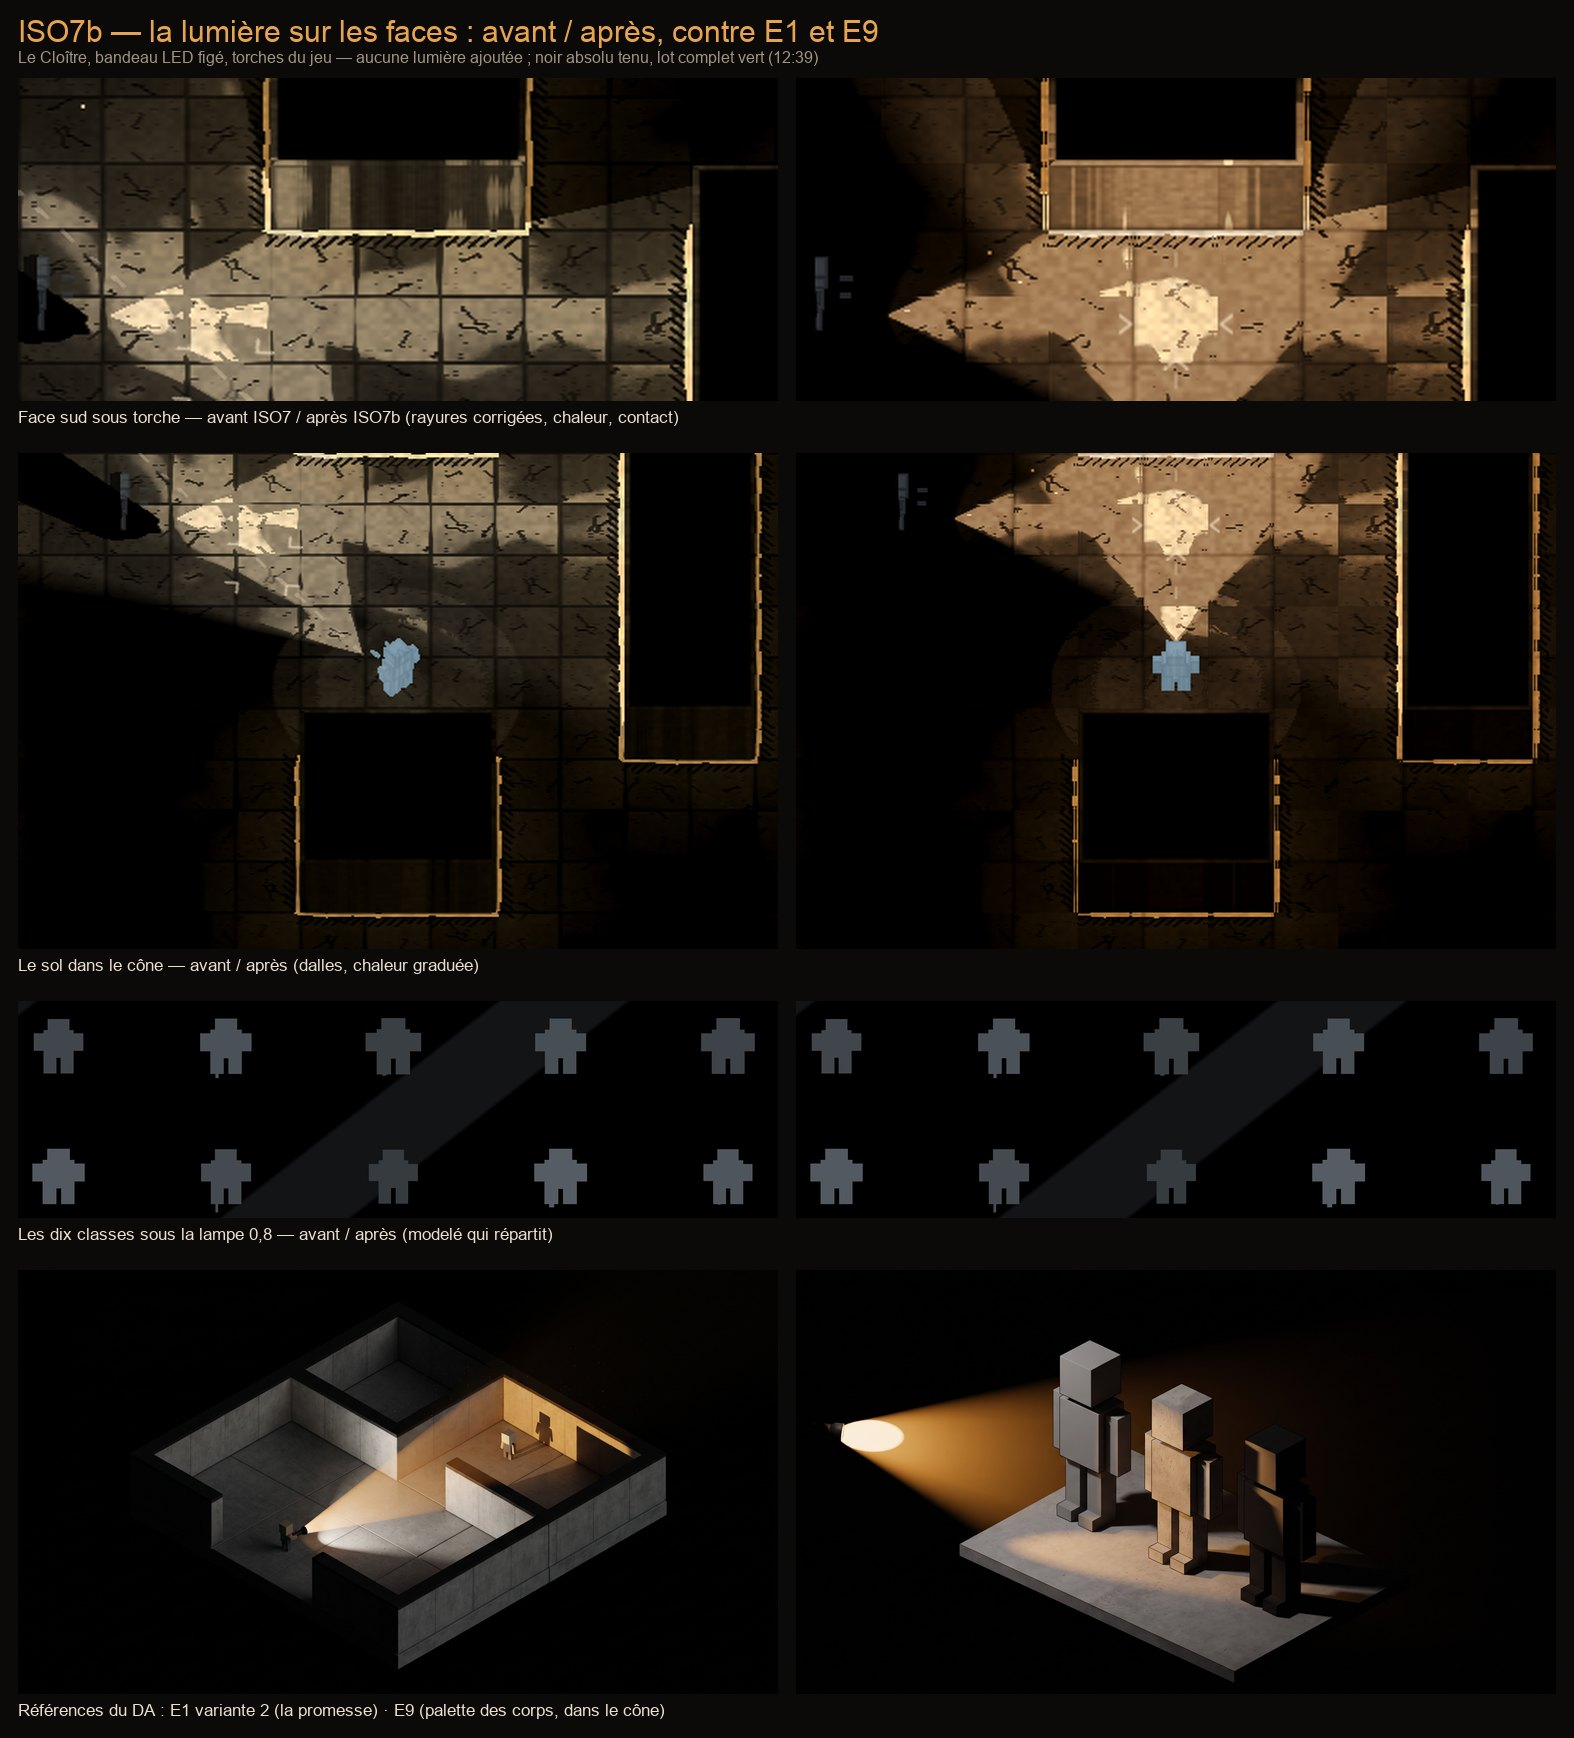
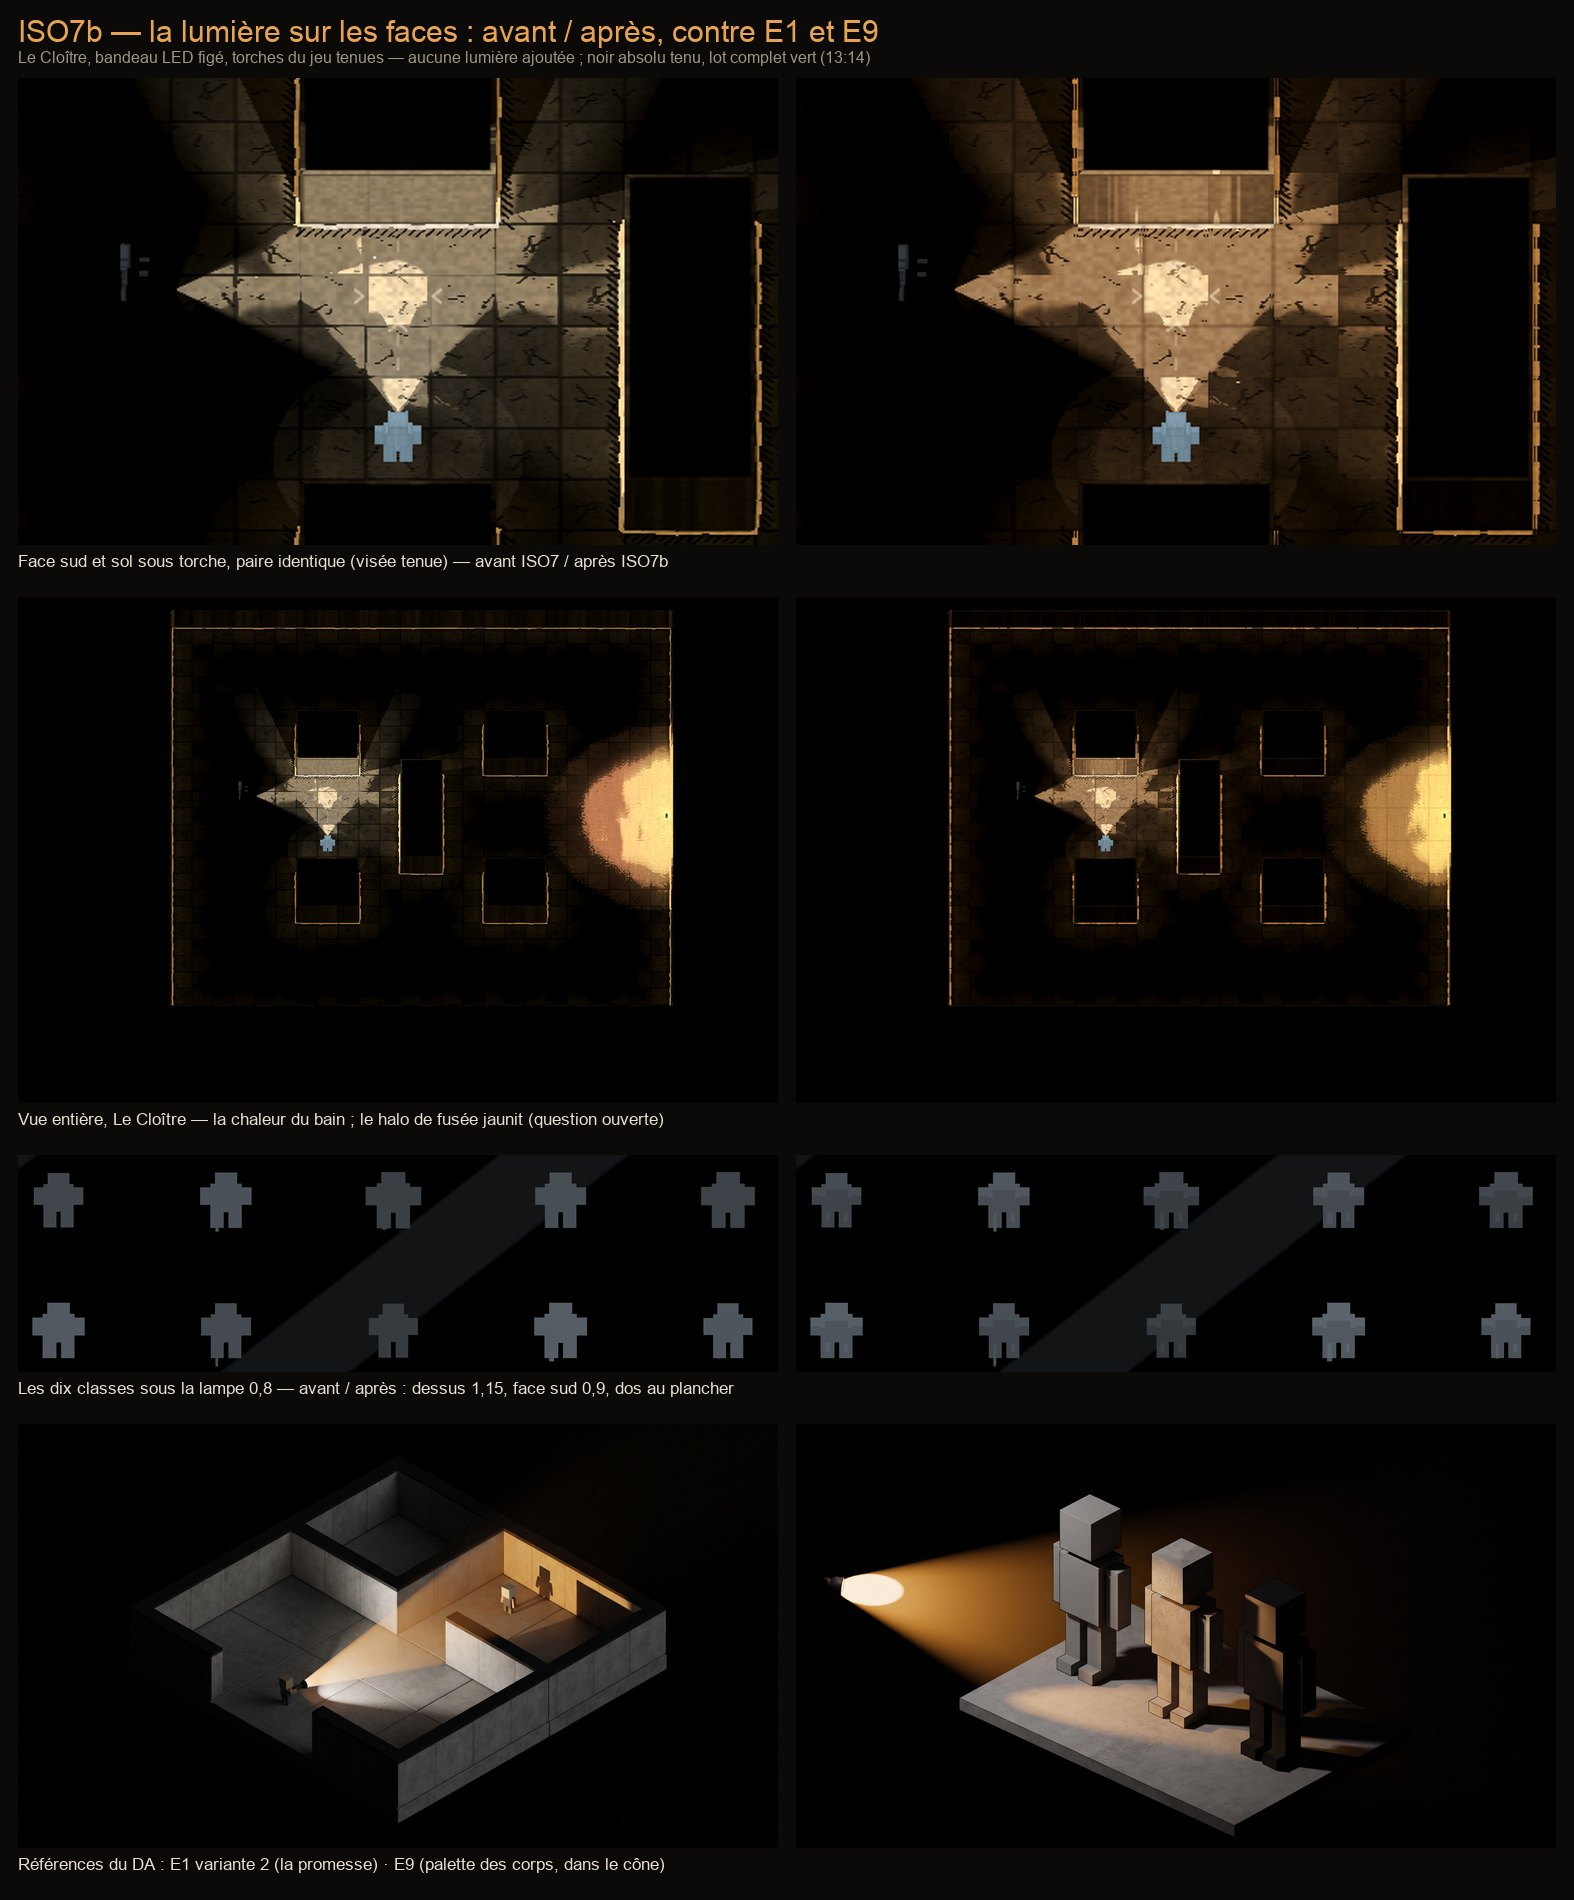
ISO7b — le modelé des corps décidé, la paire avant/après identique
La session cloud a lu la galerie de 27ddb1c et tranché ma proposition pour les
corps : dessus 1,15, face sud 0,9 lampe de côté, côté lampe 1,25, dos au
plancher. À la caméra au lacet 0 ne se voient que le dessus et la face sud ;
les laisser tous deux à 1 rendait le modelé invisible, et seul un écart entre
eux donne du volume sans retirer de lumière. Au banc des dix classes, le
volume se lit et la luminance moyenne ne bouge pas (75,0 → 74,8).

Le banc tient désormais la visée des joueurs au stick : la direction de la
souris l'emportait sur `rotation`, et la torche ne visait pas au même endroit
dans l'avant et l'après (19 521 pixels éteints, 29 avec la visée tenue). Sur
cette paire identique : face sud r/g 1,37 contre 1,32 sur E1, lumière de la
face à 0,9 de l'avant (la matière), sol dans le cône à 0,97.

Non départagé : face de face contre face rasée — la face mesurée est éclairée
de face. Question ouverte, signalée : la chaleur graduée jaunit le halo de la
fusée, déjà désaturé par la pâte.

Suite 116 vérifications, lot complet vert (13:14), noir absolu tenu.
Planche docs/iso/planche_iso7b.jpg refaite sur la paire identique.

diff --git a/docs/ROADMAP.md b/docs/ROADMAP.md
@@ -24467,6 +24467,33 @@ appels de dessin 95 → 96 (vue unique) et 172 → 172 (écran scindé). Planche
   retirer de lumière demanderait de décaler dessus et face sud en sens opposés : proposé à la session cloud, pas
   tranché ici.
 
+- ⚠ **La visée d'un joueur de banc se tient au stick, pas par `rotation`.** `LocalInputProvider.get_aim_direction`
+  rend la direction du stick s'il est poussé, sinon celle de la SOURIS : poser `rotation` à chaque image ne
+  fixait pas la torche, qui visait ailleurs entre l'avant et l'après. Le cadrage e1 pousse désormais `p1_aim_up` et
+  `p2_aim_right` à chaque image : la paire avant/après porte la même torche (passage suivant après commit
+  `27ddb1c`).
+
+- **Corps : le modelé décidé par la session cloud (12:50), sur proposition de la session.** Dessus 1,15 ; face
+  latérale `0,9 + 0,35 cos` vers la lampe (1,25 face à elle, 0,9 de profil) et `0,9 + 0,5 cos` à l'opposé (dos au
+  plancher 0,4) ; pondéré par la netteté de la direction ; re-plafonné à la fiche. Pourquoi : à la caméra au lacet
+  0 ne se voient que le dessus et la face sud ; les laisser tous deux à 1 rendait le modelé invisible (75 → 75), et
+  seul un écart entre eux donne du volume sans retirer de lumière (moyenne des quatre faces visibles, lampe de
+  côté : 0,93).
+
+**Sixième passage (13:06-13:14), paire identique** — visée de J1 et J2 tenue au stick, Le Cloître, bandeau figé.
+Suite 116 vérifications, **lot complet vert** (411 s, 0 SHADER/SCRIPT ERROR), 29 pixels éclairés éteints en vue unique
+et 41 en écran scindé (contre 19 521 quand la torche suivait la souris), appels 95 → 96 et 174 → 176.
+- **Face sud sous torche** : r/g 1,16 → 1,37, b/g 0,75 → 0,63 (E1, face éclairée : 1,32 / 0,56) ; lumière à 0,89-0,90
+  de l'avant, soit la matière. **Sol dans le cône** : r/g 1,12 → 1,29, lumière ×0,97.
+- **Face de face contre face rasée : non départagées.** La face mesurée est éclairée de face par J1 ; le cône de J2
+  éclaire le sol devant elle, pas la face. Il faudra une face que seule une torche parallèle éclaire.
+- **Corps : le modelé se voit.** Tête et épaules claires, torse et face sud plus sombres ; luminance moyenne 75,0
+  → 74,8 — la lumière du capteur est répartie, pas retirée.
+- ⚠ **Question ouverte : la chaleur graduée jaunit le halo de la fusée** (rouge-orangé avant, jaune-orangé après).
+  La pondération par la neutralité protège une couleur saturée, mais la pâte D a déjà désaturé le halo de 35 % avant
+  la température. La couleur d'une fusée se lit en jeu : signalé à la session cloud avec une proposition, pas
+  corrigé en silence.
+
 **La caméra ne bouge pas** (lacet 0, tangage 52 — étude § 5.2, H15). Pour la session cloud : `CameraIso` a un lacet
 paramétrable par instance (`var lacet_deg`, lu par `transform_pour` et `stick_au_sol`) ; son en-tête prévient
 qu'un lacet non nul fait tourner l'empreinte au sol hors du rectangle de la vue 2D.

diff --git a/docs/JOURNAL_SESSIONS.md b/docs/JOURNAL_SESSIONS.md
@@ -5385,3 +5385,7 @@ session cloud) ; chaleur de la face r/g 1,15 → 1,33 contre 1,32 sur E1 ; lot c
 réécrit sur le retour de la session cloud pour RÉPARTIR la lumière du capteur, ne se voit pas à la caméra au lacet 0
 — proposé, pas tranché. Galerie : https://claude.ai/artifact/TjC6Xkboc39KJkjnPoqsut ; planche
 `docs/iso/planche_iso7b.jpg`.
+Suite à 13:06-13:14 : modelé des corps décidé par la session cloud (dessus 1,15, face sud 0,9, côté lampe 1,25,
+dos au plancher) — le volume se voit, la luminance moyenne ne bouge pas ; paire avant/après identique, la visée
+tenue au stick (29 pixels éteints au lieu de 19 521) ; face sud r/g 1,37 contre 1,32 sur E1. Non départagé : face de
+face contre face rasée. Question ouverte : la chaleur graduée jaunit le halo de la fusée. Lot complet vert.
